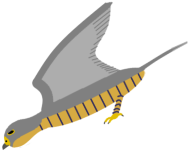
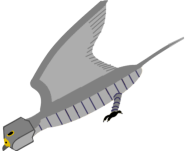
replaced falcon anims with robo-falcon, and updated the frame count in the anim register for the flapping anim

diff --git a/assets/models/monsters/falcon/falcon.js b/assets/models/monsters/falcon/falcon.js
@@ -32,7 +32,7 @@ class Falcon extends Monster {
             }),
             flapping: this.registerAnim({
                 path: kernel.rootPath + "/assets/models/monsters/falcon/anim/flapping",
-                frameCount: 4,
+                frameCount: 8,
                 fps: 24,
                 width: xUnit(250),
                 height: yUnit(75),
